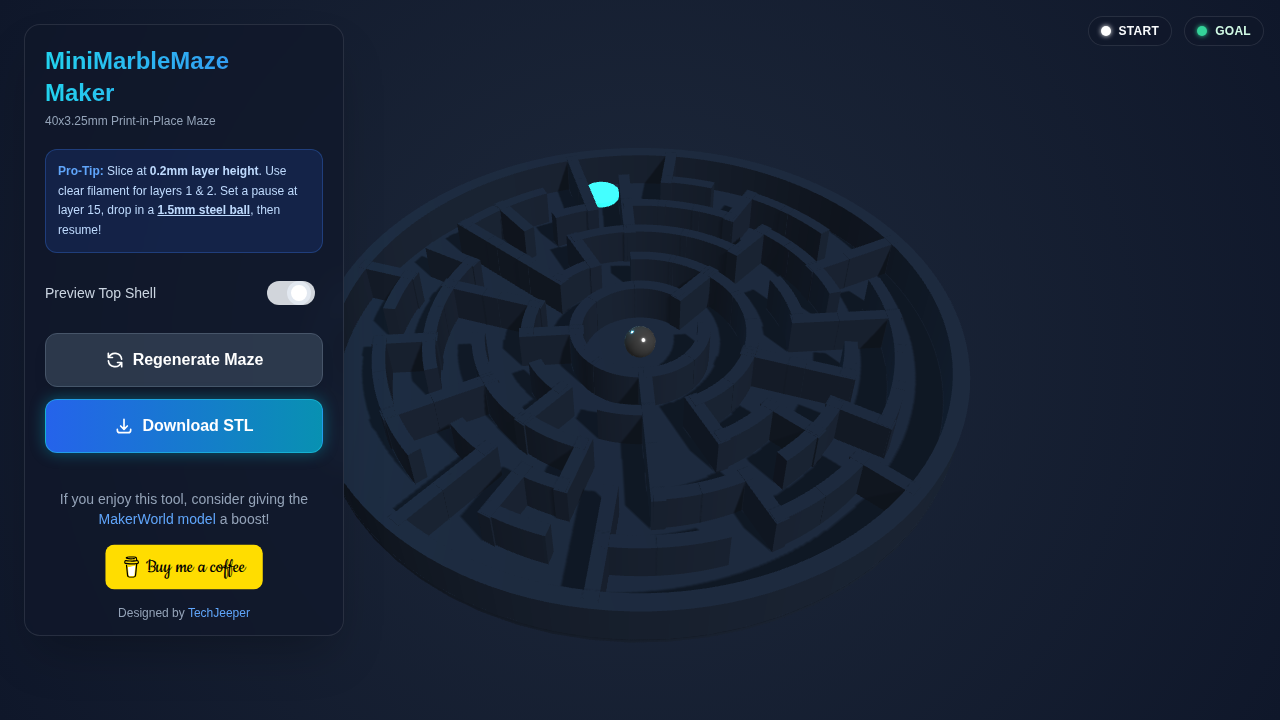
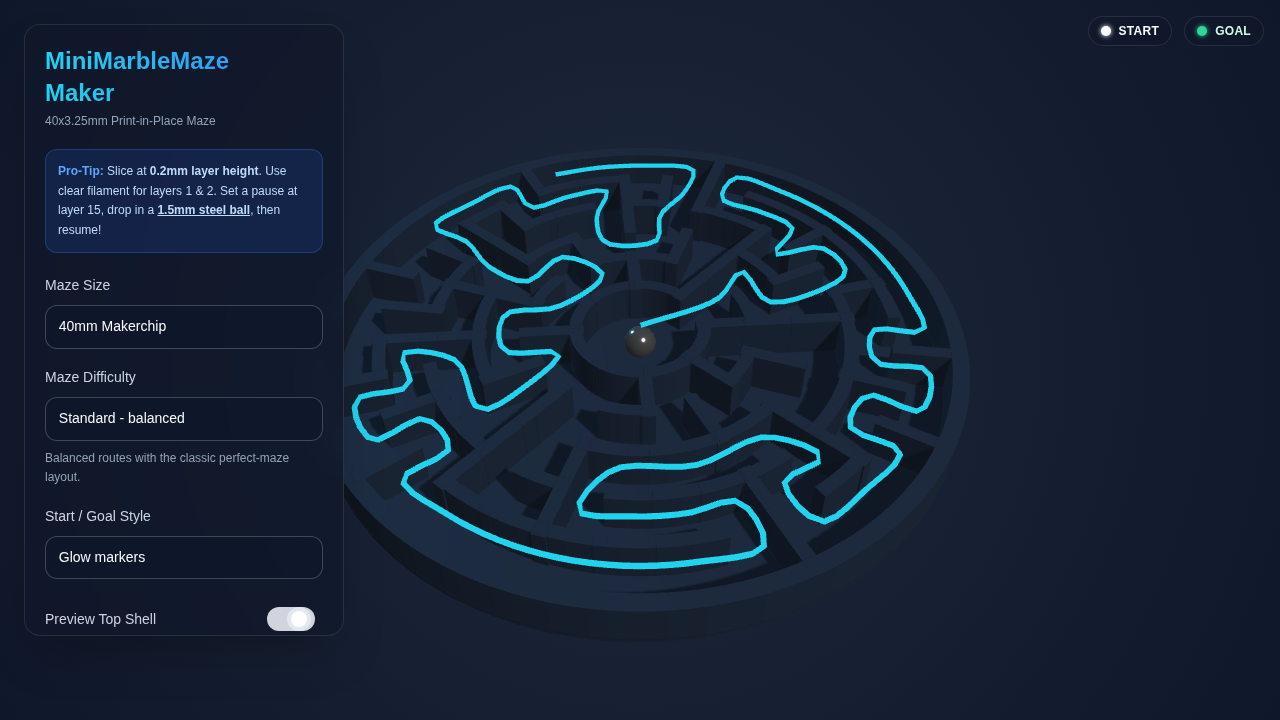
Add 100mm coaster size option
- Added UI dropdown to toggle between 40mm and 100mm size
- Configured 100mm option to support a 6mm bearing with updated instructions
- Reconfigured bottom and top layers to be 3 layers thick at 0.2mm layer height (1.2mm total shell height)
- Handled visual dynamic scaling of markers, tubes, and camera zoom

diff --git a/index.html b/index.html
@@ -85,16 +85,24 @@
             
             <div>
                 <h1 class="text-2xl font-black bg-gradient-to-r from-cyan-400 to-blue-500 bg-clip-text text-transparent">MiniMarbleMaze<br>Maker</h1>
-                <p class="text-xs text-slate-400 mt-1">40x3.25mm Print-in-Place Maze</p>
+                <p id="sizeTitle" class="text-xs text-slate-400 mt-1">40x3.25mm Print-in-Place Maze</p>
             </div>
 
             <div class="bg-blue-900/30 border border-blue-500/30 rounded-xl p-3">
-                <p class="text-xs text-blue-200 leading-relaxed">
+                <p id="proTipText" class="text-xs text-blue-200 leading-relaxed">
                     <strong class="text-blue-400">Pro-Tip:</strong> Slice at <strong>0.2mm layer height</strong>. Use clear filament for layers 1 &amp; 2. Set a pause at layer 15, drop in a <strong><a href="https://amzn.to/4uJ1VLD" target="_blank" class="underline">1.5mm steel ball</a></strong>, then resume!
                 </p>
             </div>
 
             <div class="flex flex-col gap-4">
+                <div>
+                    <label for="sizeSelect" class="text-sm font-medium text-slate-300">Maze Size</label>
+                    <select id="sizeSelect" class="control-field mt-2 cursor-pointer">
+                        <option value="40mm" selected>40mm Makerchip</option>
+                        <option value="100mm">100mm Coaster</option>
+                    </select>
+                </div>
+
                 <div>
                     <label for="difficultySelect" class="text-sm font-medium text-slate-300">Maze Difficulty</label>
                     <select id="difficultySelect" class="control-field mt-2 cursor-pointer">
@@ -173,7 +181,7 @@
 
     <script>
         // --- Specifications ---
-        const SPEC = {
+        let SPEC = {
             radius: 20.0,
             thickness: 3.25,
             shell: 0.8, // Original shell height
@@ -184,16 +192,86 @@
             ringCounts: [1, 8, 16, 16, 32, 32]
         };
 
+        let VISUALS = {
+            startMarkerRadius: 1.0,
+            goalMarkerRadius: 1.4,
+            goalMarkerHeight: 0.4,
+            previewBallRadius: 0.75,
+            previewBallYOffset: 0.55,
+            solutionTubeRadius: 0.16,
+            labelScale: 6.6,
+            labelHeight: 2.5
+        };
+
         // --- Shell Height Adjustment ---
         // Reduce top/bottom shells by half (from 0.8mm to 0.4mm)
-        const NEW_SHELL_HEIGHT = SPEC.shell / 2; // 0.4mm
+        let NEW_SHELL_HEIGHT = SPEC.shell / 2; // 0.4mm
         
         // --- Recalculate Maze Height ---
         // The taller maze height is now calculated based on the thinner shells.
-        const NEW_MAZE_HEIGHT = SPEC.thickness - (2 * NEW_SHELL_HEIGHT); // 2.45mm
+        let NEW_MAZE_HEIGHT = SPEC.thickness - (2 * NEW_SHELL_HEIGHT); // 2.45mm
         
-        const INNER_RADIUS = SPEC.radius - SPEC.outerWall; // 19.0mm
-        const RING_WIDTH = (INNER_RADIUS - SPEC.centerRadius) / (SPEC.rings - 1); 
+        let INNER_RADIUS = SPEC.radius - SPEC.outerWall; // 19.0mm
+        let RING_WIDTH = (INNER_RADIUS - SPEC.centerRadius) / (SPEC.rings - 1);
+
+        function updateSizeConfig() {
+            const size = document.getElementById('sizeSelect').value;
+            const sizeTitle = document.getElementById('sizeTitle');
+            const proTipText = document.getElementById('proTipText');
+
+            if (size === '40mm') {
+                SPEC = {
+                    radius: 20.0,
+                    thickness: 3.25,
+                    shell: 0.8,
+                    outerWall: 1.0,
+                    wallWidth: 0.8,
+                    centerRadius: 4.0,
+                    rings: 6,
+                    ringCounts: [1, 8, 16, 16, 32, 32]
+                };
+                VISUALS = {
+                    startMarkerRadius: 1.0,
+                    goalMarkerRadius: 1.4,
+                    goalMarkerHeight: 0.4,
+                    previewBallRadius: 0.75,
+                    previewBallYOffset: 0.55,
+                    solutionTubeRadius: 0.16,
+                    labelScale: 6.6,
+                    labelHeight: 2.5
+                };
+                sizeTitle.innerHTML = '40x3.25mm Print-in-Place Maze';
+                proTipText.innerHTML = '<strong class="text-blue-400">Pro-Tip:</strong> Slice at <strong>0.2mm layer height</strong>. Use clear filament for layers 1 &amp; 2. Set a pause at layer 15, drop in a <strong><a href="https://amzn.to/4uJ1VLD" target="_blank" class="underline">1.5mm steel ball</a></strong>, then resume!';
+            } else if (size === '100mm') {
+                SPEC = {
+                    radius: 50.0,
+                    thickness: 8.2, // 3 layers top + 3 layers bottom (0.2mm layers) + 7mm for 6mm ball
+                    shell: 1.2, // 3 layers at 0.2mm = 0.6mm * 2 for top/bottom combined
+                    outerWall: 2.5,
+                    wallWidth: 2.0,
+                    centerRadius: 10.0,
+                    rings: 6,
+                    ringCounts: [1, 8, 16, 16, 32, 32]
+                };
+                VISUALS = {
+                    startMarkerRadius: 2.5,
+                    goalMarkerRadius: 3.5,
+                    goalMarkerHeight: 1.0,
+                    previewBallRadius: 3.0, // Visual size of a 6mm bearing
+                    previewBallYOffset: 2.5,
+                    solutionTubeRadius: 0.4,
+                    labelScale: 16.5,
+                    labelHeight: 6.25
+                };
+                sizeTitle.innerHTML = '100x8.2mm Print-in-Place Coaster';
+                proTipText.innerHTML = '<strong class="text-blue-400">Pro-Tip:</strong> Slice at <strong>0.2mm layer height</strong>. Use clear filament for layers 1 to 3. Set a pause at layer 39, drop in a <strong><a href="https://amzn.to/4wmdM2y" target="_blank" class="underline">6mm steel ball</a></strong>, then resume!';
+            }
+
+            NEW_SHELL_HEIGHT = SPEC.shell / 2;
+            NEW_MAZE_HEIGHT = SPEC.thickness - (2 * NEW_SHELL_HEIGHT);
+            INNER_RADIUS = SPEC.radius - SPEC.outerWall;
+            RING_WIDTH = (INNER_RADIUS - SPEC.centerRadius) / (SPEC.rings - 1);
+        }
 
         const DIFFICULTY_CONFIG = {
             easy: {
@@ -292,6 +370,16 @@
             document.getElementById('btnGenerate').addEventListener('click', generateChip);
             document.getElementById('btnDownload').addEventListener('click', downloadSTL);
             document.getElementById('btnPreviewBall').addEventListener('click', startBallPreview);
+
+            document.getElementById('sizeSelect').addEventListener('change', () => {
+                updateSizeConfig();
+                // Scale camera out for the coaster size
+                const dist = SPEC.radius === 50.0 ? 110 : 63;
+                camera.position.normalize().multiplyScalar(dist);
+                camera.updateProjectionMatrix();
+                generateChip();
+            });
+
             document.getElementById('difficultySelect').addEventListener('change', () => {
                 updateDifficultyHint();
                 generateChip();
@@ -303,6 +391,7 @@
             });
 
             // 9. Generate Initial Model & Start Loop
+            updateSizeConfig();
             updateDifficultyHint();
             generateChip();
             animate();
@@ -599,7 +688,7 @@
             const texture = new THREE.CanvasTexture(canvas);
             const material = new THREE.SpriteMaterial({ map: texture, transparent: true, depthTest: false });
             const sprite = new THREE.Sprite(material);
-            sprite.scale.set(6.6, 2.5, 1);
+            sprite.scale.set(VISUALS.labelScale, VISUALS.labelHeight, 1);
             return sprite;
         }
 
@@ -656,7 +745,7 @@
             const point = solutionCurve.getPoint(eased);
 
             previewBall.position.copy(point);
-            previewBall.position.y += 0.55;
+            previewBall.position.y += VISUALS.previewBallYOffset;
             previewBall.rotation.x += 0.08;
             previewBall.rotation.z += 0.05;
 
@@ -814,14 +903,14 @@
             scene.add(chipGroup);
 
             // 5. Setup Markers
-            const ballGeo = new THREE.SphereGeometry(1.0, 16, 16);
+            const ballGeo = new THREE.SphereGeometry(VISUALS.startMarkerRadius, 16, 16);
             const ballMat = new THREE.MeshStandardMaterial({ color: 0xffffff, roughness: 0.1, metalness: 0.8 });
             startMarker = new THREE.Mesh(ballGeo, ballMat);
             // Update placement to center vertically in the taller maze space.
             startMarker.position.set(0, NEW_SHELL_HEIGHT + NEW_MAZE_HEIGHT / 2, 0); 
             markersGroup.add(startMarker);
 
-            const goalGeo = new THREE.CylinderGeometry(1.4, 1.4, 0.4, 16);
+            const goalGeo = new THREE.CylinderGeometry(VISUALS.goalMarkerRadius, VISUALS.goalMarkerRadius, VISUALS.goalMarkerHeight, 16);
             const goalMat = new THREE.MeshStandardMaterial({ color: 0x34d399, emissive: 0x059669 });
             goalMarker = new THREE.Mesh(goalGeo, goalMat);
             
@@ -852,12 +941,12 @@
                 ...getSolutionPath().map(node => getCellCenterPosition(node, lineY))
             ];
             solutionCurve = new THREE.CatmullRomCurve3(solutionPathPoints);
-            const solutionGeo = new THREE.TubeGeometry(solutionCurve, Math.max(8, solutionPathPoints.length * 4), 0.16, 8, false);
+            const solutionGeo = new THREE.TubeGeometry(solutionCurve, Math.max(8, solutionPathPoints.length * 4), VISUALS.solutionTubeRadius, 8, false);
             const solutionMat = new THREE.MeshBasicMaterial({ color: 0x22d3ee });
             solutionLine = new THREE.Mesh(solutionGeo, solutionMat);
             markersGroup.add(solutionLine);
 
-            const previewGeo = new THREE.SphereGeometry(0.75, 24, 24);
+            const previewGeo = new THREE.SphereGeometry(VISUALS.previewBallRadius, 24, 24);
             const previewMat = new THREE.MeshStandardMaterial({
                 color: 0xfacc15,
                 emissive: 0x854d0e,
@@ -867,7 +956,7 @@
             previewBall = new THREE.Mesh(previewGeo, previewMat);
             previewBall.visible = false;
             previewBall.position.copy(solutionPathPoints[0]);
-            previewBall.position.y += 0.55;
+            previewBall.position.y += VISUALS.previewBallYOffset;
             markersGroup.add(previewBall);
 
             scene.add(markersGroup);

diff --git a/screenshot_100mm.py b/screenshot_100mm.py
@@ -1,0 +1,13 @@
+from playwright.sync_api import sync_playwright
+import os
+
+with sync_playwright() as p:
+    browser = p.chromium.launch()
+    page = browser.new_page()
+    pwd = os.getcwd()
+    page.goto(f"file://{pwd}/index.html")
+    page.wait_for_timeout(2000)
+    page.select_option('#sizeSelect', '100mm')
+    page.wait_for_timeout(5000)
+    page.screenshot(path="screenshot_100mm.png", full_page=True)
+    browser.close()
